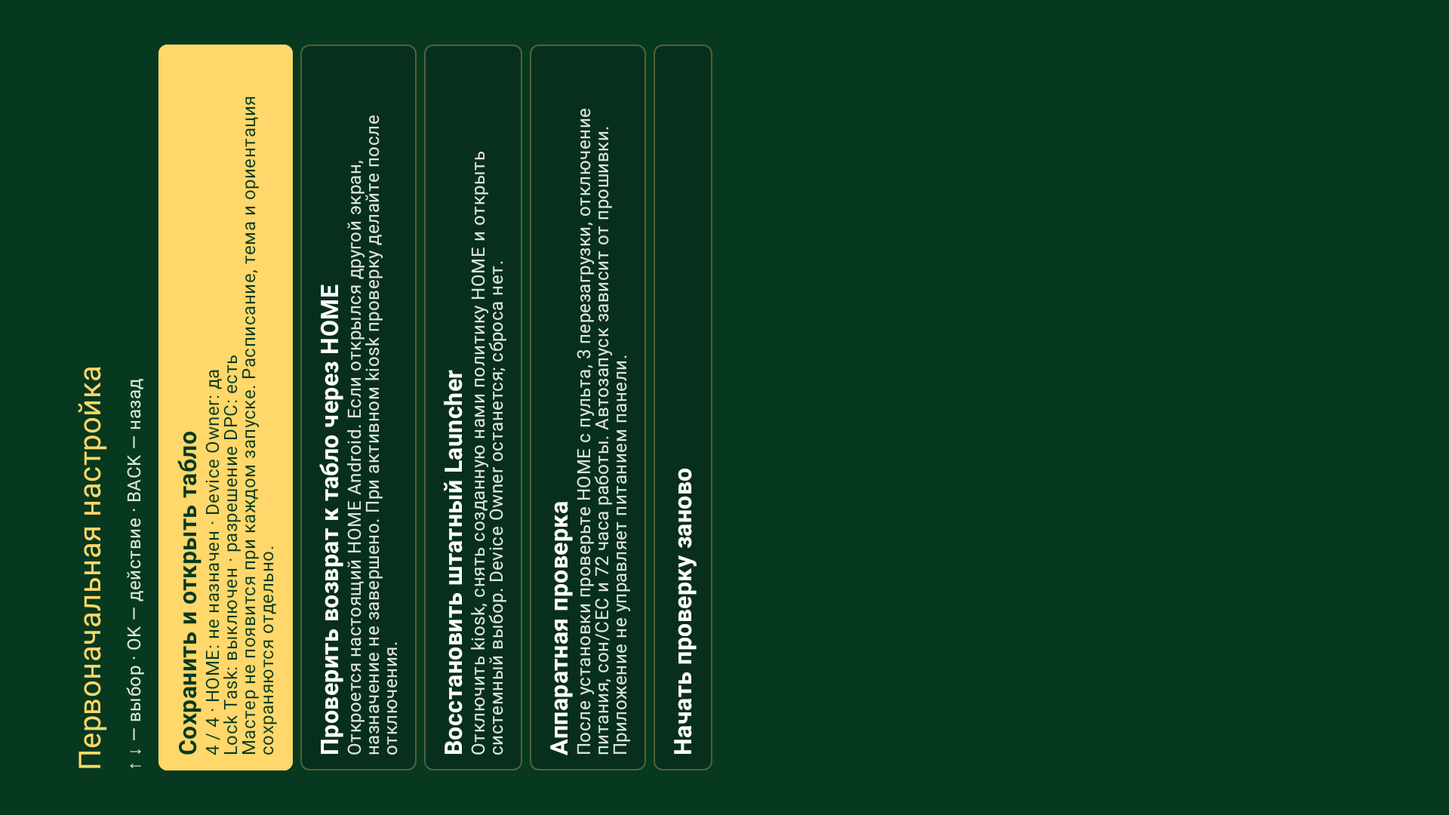
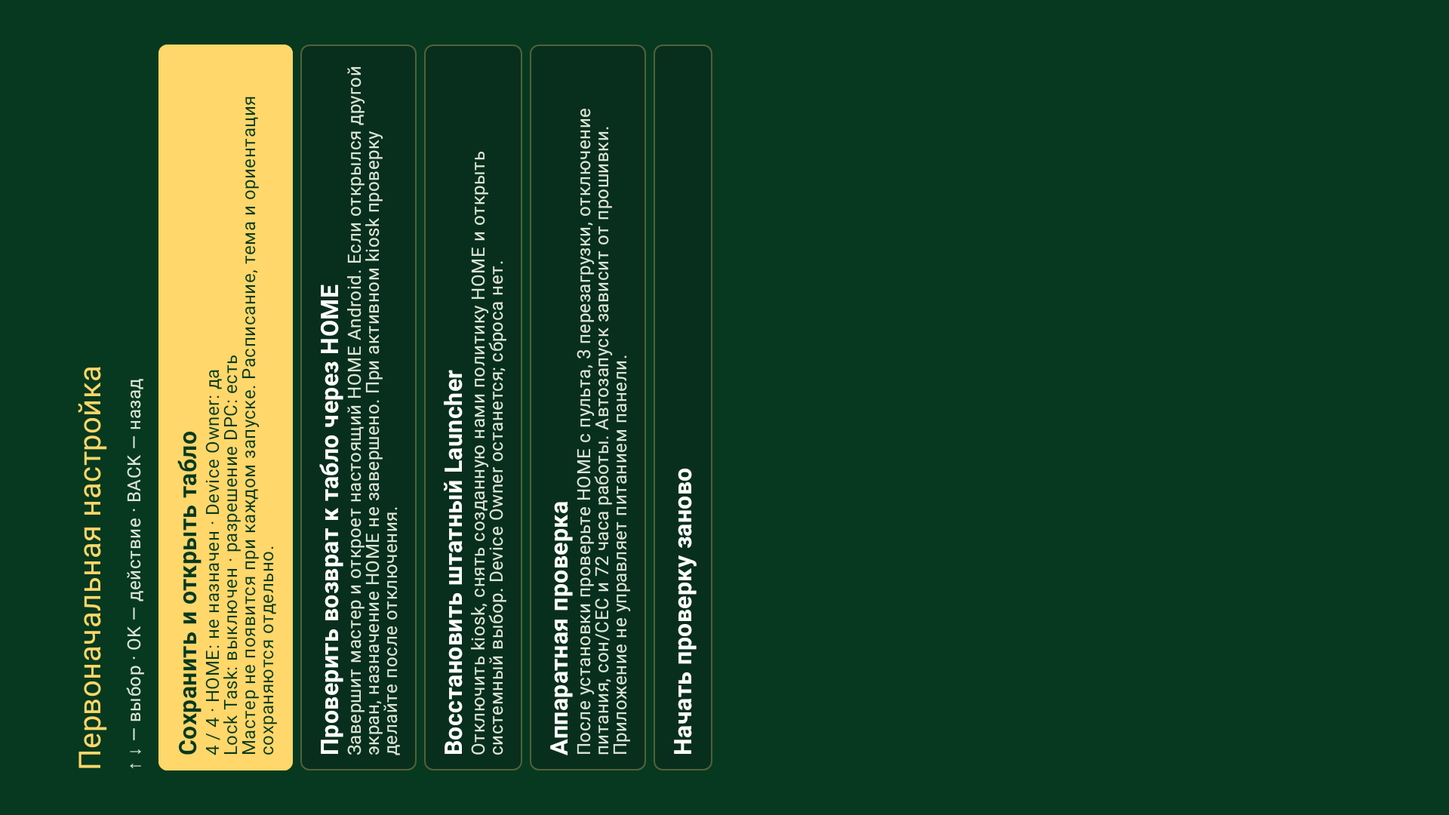
fix: require verified kiosk status and unlocked keyguard

Changed region(s): [[0.2188, 0.1528, 0.2812, 0.9167], [0.2188, 0.0917, 0.25, 0.1528]]

diff --git a/app/src/main/java/dev/nurislam/tv/setup/DeviceSetup.kt b/app/src/main/java/dev/nurislam/tv/setup/DeviceSetup.kt
@@ -2,6 +2,7 @@ package dev.nurislam.tv.setup
 
 import android.app.Activity
 import android.app.ActivityManager
+import android.app.KeyguardManager
 import android.app.admin.DevicePolicyManager
 import android.app.role.RoleManager
 import android.content.ComponentName
@@ -79,6 +80,7 @@ class DeviceSetupController(val access: DeviceAccess, val preferences: SetupPref
         starting = true
         try {
             val s = access.status()
+            check(s.problem == null) { "Полномочия Android не проверены: ${s.problem}" }
             if (!s.lockPermitted && s.deviceOwner) {
                 // Record before the policy call, so interrupted/failed calls can be cleaned up.
                 preferences.ownsAllowlistEntry(true)
@@ -97,7 +99,8 @@ class DeviceSetupController(val access: DeviceAccess, val preferences: SetupPref
 
     suspend fun finishTrialByRemote() {
         check(trialDeadline?.let { SystemClock.elapsedRealtime() < it } == true) { "Время пробы истекло" }
-        check(access.status().lockState == ActivityManager.LOCK_TASK_MODE_LOCKED) { "Настоящий Lock Task не подтверждён системой" }
+        val facts = access.status()
+        check(facts.problem == null && facts.lockState == ActivityManager.LOCK_TASK_MODE_LOCKED) { "Настоящий Lock Task не подтверждён системой" }
         stopVerified()
         preferences.trialPending(false)
         trialDeadline = null
@@ -138,12 +141,14 @@ class DeviceSetupController(val access: DeviceAccess, val preferences: SetupPref
     }
 
     private suspend fun startVerified() {
-        check(access.status().lockPermitted) { "Разрешение Lock Task отсутствует или отозвано" }
-        if (access.status().lockState == ActivityManager.LOCK_TASK_MODE_LOCKED) return
-        check(access.status().lockState == ActivityManager.LOCK_TASK_MODE_NONE) { "Закрепление экрана не является kiosk" }
+        val facts = access.status()
+        check(facts.problem == null && facts.lockPermitted) { "Разрешение Lock Task отсутствует, отозвано или не подтверждено" }
+        if (facts.lockState == ActivityManager.LOCK_TASK_MODE_LOCKED) return
+        check(facts.lockState == ActivityManager.LOCK_TASK_MODE_NONE) { "Закрепление экрана не является kiosk" }
         access.startLock()
         repeat(10) {
-            if (access.status().lockState == ActivityManager.LOCK_TASK_MODE_LOCKED) return
+            val state = access.status()
+            if (state.problem == null && state.lockState == ActivityManager.LOCK_TASK_MODE_LOCKED) return
             delay(100)
         }
         error("Android не подтвердил Lock Task; выполнен безопасный выход")
@@ -152,7 +157,8 @@ class DeviceSetupController(val access: DeviceAccess, val preferences: SetupPref
     private suspend fun stopVerified() {
         access.stopLock()
         repeat(10) {
-            if (access.status().lockState == ActivityManager.LOCK_TASK_MODE_NONE) return
+            val state = access.status()
+            if (state.problem == null && state.lockState == ActivityManager.LOCK_TASK_MODE_NONE) return
             delay(100)
         }
         error("Android не подтвердил выход. Обратитесь к администратору DPC; повторите отключение.")
@@ -163,7 +169,8 @@ class DeviceSetupController(val access: DeviceAccess, val preferences: SetupPref
         if (trialDeadline != null) {
             // Leave the deadline armed if stop throws: the next resume/timer retries.
             access.stopLock()
-            check(access.status().lockState == ActivityManager.LOCK_TASK_MODE_NONE) { "Выход ещё не подтверждён. Повторите отключение kiosk." }
+            val state = access.status()
+            check(state.problem == null && state.lockState == ActivityManager.LOCK_TASK_MODE_NONE) { "Выход ещё не подтверждён. Повторите отключение kiosk." }
             preferences.trialPending(false)
             trialDeadline = null
             exitTested = false
@@ -183,7 +190,8 @@ class DeviceSetupController(val access: DeviceAccess, val preferences: SetupPref
     }
 
     fun setManagedHome() {
-        check(access.status().deviceOwner) { "Требуется Device Owner нашего приложения" }
+        val facts = access.status()
+        check(facts.problem == null && facts.deviceOwner) { "Требуется подтверждённый Device Owner нашего приложения" }
         preferences.ownsHomePolicy(true)
         access.setManagedHome()
         check(access.status().home) { "Android пока не подтвердил HOME. Обновите диагностику." }
@@ -192,6 +200,7 @@ class DeviceSetupController(val access: DeviceAccess, val preferences: SetupPref
     suspend fun releaseHome() {
         disableKiosk()
         val facts = access.status()
+        check(facts.problem == null) { "HOME не освобождён: диагностика Android недоступна. Повторите проверку." }
         check(facts.otherHomes.isNotEmpty() || facts.homeSettingsAvailable) { "Другой Launcher и настройки HOME не обнаружены. Kiosk отключён; HOME пока сохранён. Включите штатный Launcher средствами производителя." }
         if (preferences.ownsHomePolicy) {
             check(access.status().deviceOwner) { "Политику HOME должен снять управляющий DPC" }
@@ -235,7 +244,7 @@ class AndroidDeviceAccess(private val activity: Activity) : DeviceAccess {
                 provisioningAllowed = dpm?.isProvisioningAllowed(DevicePolicyManager.ACTION_PROVISION_MANAGED_DEVICE) == true,
                 legacyProvisioningAvailable = Build.VERSION.SDK_INT < 31 && available(legacyProvisioningRequest()),
             )
-        } catch (e: RuntimeException) { result.copy(problem = "Проверка Android недоступна: ${e.javaClass.simpleName}. Полномочия не подтверждены.") }
+        } catch (e: RuntimeException) { result.copy(lockState = -1, problem = "Проверка Android недоступна: ${e.javaClass.simpleName}. Полномочия не подтверждены.") }
     }
     override fun homeRequest(): Intent {
         if (Build.VERSION.SDK_INT >= 29) {
@@ -249,7 +258,11 @@ class AndroidDeviceAccess(private val activity: Activity) : DeviceAccess {
         .putExtra(DevicePolicyManager.EXTRA_PROVISIONING_LEAVE_ALL_SYSTEM_APPS_ENABLED, true)
     override fun allowSelf() { dpm.setLockTaskPackages(admin, (dpm.getLockTaskPackages(admin).toList() + pkg).distinct().toTypedArray()) }
     override fun removeSelf() { dpm.setLockTaskPackages(admin, dpm.getLockTaskPackages(admin).filter { it != pkg }.toTypedArray()) }
-    override fun startLock() = activity.startLockTask()
+    override fun startLock() {
+        check(dpm?.isLockTaskPermitted(pkg) == true) { "DPC не разрешил Lock Task. Закрепление экрана не запускается." }
+        check(context.getSystemService(KeyguardManager::class.java)?.isKeyguardLocked == false) { "Сначала разблокируйте Android. Kiosk поверх экрана блокировки не запускается; повторите настройку после разблокировки." }
+        activity.startLockTask()
+    }
     override fun stopLock() = activity.stopLockTask()
     override fun setManagedHome() {
         val filter = IntentFilter(Intent.ACTION_MAIN).apply { addCategory(Intent.CATEGORY_HOME); addCategory(Intent.CATEGORY_DEFAULT) }

diff --git a/app/src/main/java/dev/nurislam/tv/ui/DeviceSetupWizard.kt b/app/src/main/java/dev/nurislam/tv/ui/DeviceSetupWizard.kt
@@ -75,7 +75,7 @@ fun DeviceSetupWizard(
         }
     }
     val locked = status.lockState == ActivityManager.LOCK_TASK_MODE_LOCKED
-    val facts = "HOME: ${if (status.home) "Нур Ислам" else "не назначен"} · Device Owner: ${if (status.deviceOwner) "да" else "нет"}\nLock Task: ${when (status.lockState) { ActivityManager.LOCK_TASK_MODE_LOCKED -> "активен"; ActivityManager.LOCK_TASK_MODE_PINNED -> "только закрепление, не kiosk"; else -> "выключен" }} · разрешение DPC: ${if (status.lockPermitted) "есть" else "нет"}"
+    val facts = status.problem ?: "HOME: ${if (status.home) "Нур Ислам" else "не назначен"} · Device Owner: ${if (status.deviceOwner) "да" else "нет"}\nLock Task: ${when (status.lockState) { ActivityManager.LOCK_TASK_MODE_LOCKED -> "активен"; ActivityManager.LOCK_TASK_MODE_PINNED -> "только закрепление, не kiosk"; ActivityManager.LOCK_TASK_MODE_NONE -> "выключен"; else -> "не проверен" }} · разрешение DPC: ${if (status.lockPermitted) "есть" else "нет"}"
     val items = when {
         trialDeadline != null -> listOf(
             SetupItem("Отменить пробу и выйти", message ?: "Автовыход через $seconds с. Настройка не сохранена. BACK также отменяет пробу.") { action(SetupAction.CANCEL_TRIAL) },
@@ -99,7 +99,7 @@ fun DeviceSetupWizard(
         )
         page == SetupPage.KIOSK -> listOf(
             SetupItem("Далее: итоговая проверка", "3 / 4 · $facts") { go(SetupPage.SUMMARY) },
-            SetupItem("Отключить kiosk", "Сначала отключается восстановление kiosk при запуске, затем Lock Task. Выход доступен с пульта всегда.", kioskSaved || locked || status.lockState == ActivityManager.LOCK_TASK_MODE_PINNED || status.deviceOwner) { action(SetupAction.DISABLE_KIOSK) },
+            SetupItem("Отключить kiosk", "Сначала отключается восстановление kiosk при запуске, затем Lock Task. Выход доступен с пульта всегда.") { action(SetupAction.DISABLE_KIOSK) },
             SetupItem("Проверить безопасный выход", "20 секунд. Сначала пробный Lock Task, затем ↓ + OK для выхода. Таймаут/BACK/уход в фон отменяют пробу.", !kioskSaved && !locked && (status.deviceOwner || status.lockPermitted)) { action(SetupAction.START_TRIAL) },
             SetupItem("Включить kiosk при запуске", "Доступно только после успешного выхода из пробы с пульта. Администратор: OK пять раз → настройки → HOME → kiosk → отключить.", exitTested && !kioskSaved) { go(SetupPage.CONFIRM_KIOSK) },
             SetupItem("Управляемая первоначальная настройка", if (status.deviceOwner) "Device Owner уже назначен системе." else "Device Owner нельзя получить кнопкой разрешения после обычной установки.") { go(SetupPage.PROVISIONING) },
@@ -115,7 +115,7 @@ fun DeviceSetupWizard(
         )
         page == SetupPage.SUMMARY -> listOf(
             SetupItem("Сохранить и открыть табло", "4 / 4 · $facts\nМастер не появится при каждом запуске. Расписание, тема и ориентация сохраняются отдельно.") { action(SetupAction.FINISH) },
-            SetupItem("Проверить возврат к табло через HOME", "Откроется настоящий HOME Android. Если открылся другой экран, назначение не завершено. При активном kiosk проверку делайте после отключения.", !locked) { action(SetupAction.TEST_HOME) },
+            SetupItem("Проверить возврат к табло через HOME", "Завершит мастер и откроет настоящий HOME Android. Если открылся другой экран, назначение HOME не завершено. При активном kiosk проверку делайте после отключения.", !locked) { action(SetupAction.TEST_HOME) },
             SetupItem("Восстановить штатный Launcher", "Отключить kiosk, снять созданную нами политику HOME и открыть системный выбор. Device Owner останется; сброса нет.") { go(SetupPage.CONFIRM_RESTORE) },
             SetupItem("Аппаратная проверка", "После установки проверьте HOME с пульта, 3 перезагрузки, отключение питания, сон/CEC и 72 часа работы. Автозапуск зависит от прошивки. Приложение не управляет питанием панели.", false) {},
             SetupItem("Начать проверку заново") { go(SetupPage.CHECK) },

diff --git a/app/src/acceptanceTest/java/dev/nurislam/tv/DeviceAccessAndroidTest.kt b/app/src/acceptanceTest/java/dev/nurislam/tv/DeviceAccessAndroidTest.kt
@@ -79,4 +79,20 @@ class DeviceAccessAndroidTest {
         val provisioning = activity.packageManager.getActivityInfo(ComponentName(activity, ProvisioningActivity::class.java), 0)
         assertEquals("android.permission.BIND_DEVICE_ADMIN", provisioning.permission)
     }
+    @Test fun keyguardMustBeUnlockedBeforeStartingRealActivityLockTask() = withDevice { activity, device ->
+        try { device.startLock(); fail("Adapter must also refuse missing DPC permission") } catch (_: IllegalStateException) {}
+        val dpm = activity.getSystemService(DevicePolicyManager::class.java)
+        shadowOf(dpm).setDeviceOwner(ComponentName(activity, MosqueDeviceAdmin::class.java))
+        device.allowSelf()
+        val keyguard = activity.getSystemService(android.app.KeyguardManager::class.java)
+        shadowOf(keyguard).setKeyguardLocked(true)
+        try { device.startLock(); fail("Must refuse to lock over keyguard") } catch (_: IllegalStateException) {}
+        assertEquals(android.app.ActivityManager.LOCK_TASK_MODE_NONE, device.status().lockState)
+        shadowOf(keyguard).setKeyguardLocked(false)
+        // The authorized adapter call reaches the Activity framework shadow only after unlocking.
+        device.startLock()
+        assertEquals(android.app.ActivityManager.LOCK_TASK_MODE_LOCKED, device.status().lockState)
+        device.stopLock()
+        assertEquals(android.app.ActivityManager.LOCK_TASK_MODE_NONE, device.status().lockState)
+    }
 }

diff --git a/app/src/acceptanceTest/java/dev/nurislam/tv/FirstRunActivityTest.kt b/app/src/acceptanceTest/java/dev/nurislam/tv/FirstRunActivityTest.kt
@@ -112,6 +112,17 @@ class FirstRunActivityTest {
         assertFalse(SetupPreferences.from(compose.activity).kiosk)
         compose.onNodeWithText("Далее: итоговая проверка").assertIsDisplayed()
     }
+    @Test fun homeTestCompletesSetupAndLaunchesTheRealHomeIntent() {
+        key(Key.Back) // summary
+        key(Key.DirectionDown); key(Key.Enter)
+        assertTrue(SetupPreferences.from(compose.activity).completed)
+        compose.onNodeWithTag("device-setup").assertDoesNotExist()
+        val intent = shadowOf(compose.activity).nextStartedActivity
+        assertEquals(Intent.ACTION_MAIN, intent.action)
+        assertTrue(intent.hasCategory(Intent.CATEGORY_HOME))
+        compose.activityRule.scenario.recreate()
+        compose.onNodeWithTag("device-setup").assertDoesNotExist()
+    }
     @Test fun homeReturnDoesNotBypassUnfinishedWizardAndBackIsSafe() {
         compose.runOnIdle { androidx.test.platform.app.InstrumentationRegistry.getInstrumentation().callActivityOnNewIntent(compose.activity, Intent(Intent.ACTION_MAIN).addCategory(Intent.CATEGORY_HOME)) }
         compose.onNodeWithTag("device-setup").assertIsDisplayed()

diff --git a/app/src/acceptanceTest/java/dev/nurislam/tv/DeviceSetupControllerTest.kt b/app/src/acceptanceTest/java/dev/nurislam/tv/DeviceSetupControllerTest.kt
@@ -186,6 +186,21 @@ class DeviceSetupControllerTest {
         fails { broken.disableKiosk() }
         assertEquals(LOCK_TASK_MODE_NONE, device.facts.lockState)
     }
+    @Test fun unavailableDiagnosticsCannotProveLockEntryOrExit() = runTest {
+        device.facts = device.facts.copy(lockPermitted = true, problem = "Service unavailable")
+        fails { controller.startTrial() }
+        assertEquals(0, device.starts)
+        device.facts = device.facts.copy(problem = null)
+        controller.startTrial()
+        device.facts = device.facts.copy(problem = "Service unavailable")
+        fails { controller.finishTrialByRemote() }
+        fails { controller.cancelTrial() }
+        assertFalse(controller.exitTested)
+        assertTrue(prefs.trialPending)
+        device.facts = device.facts.copy(problem = null)
+        controller.cancelTrial()
+        assertFalse(prefs.trialPending)
+    }
     @Test fun malformedPreferencesDoNotGrantOrRestoreKiosk() = runTest {
         val context = ApplicationProvider.getApplicationContext<Context>()
         val raw = context.getSharedPreferences("controller-test", Context.MODE_PRIVATE)

diff --git a/app/src/main/java/dev/nurislam/tv/MainActivity.kt b/app/src/main/java/dev/nurislam/tv/MainActivity.kt
@@ -235,7 +235,7 @@ class MainActivity : ComponentActivity() {
                                                     }
                                                     SetupAction.FINISH -> { deviceSetup.preferences.completed(true); setupOpen = false; admin = false }
                                                     SetupAction.APP_SETTINGS -> { deviceSetup.preferences.completed(true); setupOpen = false; admin = true }
-                                                    SetupAction.TEST_HOME -> { setupOpen = false; admin = false; startActivity(Intent(Intent.ACTION_MAIN).addCategory(Intent.CATEGORY_HOME)) }
+                                                    SetupAction.TEST_HOME -> { deviceSetup.preferences.completed(true); setupOpen = false; admin = false; startActivity(Intent(Intent.ACTION_MAIN).addCategory(Intent.CATEGORY_HOME)) }
                                                 }
                                             }
                                         })

diff --git a/docs/TV_SETUP.md b/docs/TV_SETUP.md
@@ -10,7 +10,7 @@
 4. При необходимости выберите «Экран, тема и расписание»: для физически вертикального ТВ с окном 1920×1080 выберите CW/CCW и подтвердите за 15 секунд. Настройте имя, язык и импортируйте утверждённый JSON. Вернитесь в мастер: **OK пять раз за пять секунд → Открыть настройки администратора → Основной экран HOME / безопасный выход → Мастер HOME / kiosk**.
 5. «Далее: основной экран» → «Сделать Нур Ислам главным экраном». На Android 10+/API 29+ используется системный запрос `ROLE_HOME`, когда роль доступна. Иначе открываются настройки HOME; при отсутствии — обычный HOME resolver. Выберите «Нур Ислам» и «Всегда», если Android предлагает такой выбор.
 6. После возврата мастер повторно проверяет **реальный HOME resolver**, а не доверяет `RESULT_OK`. Если назначение не произошло, попробуйте «Настройки HOME Android». Отказ или закрытая прошивка не блокируют приложение: можно пропустить мастер и пользоваться обычным полноэкранным табло.
-7. Без Device Owner / allowlist пропустите kiosk. На последнем шаге проверьте возврат к табло настоящим HOME и завершите мастер. Завершение сохраняется; мастер не появляется при каждом запуске, но доступен из настроек.
+7. Без Device Owner / allowlist пропустите kiosk. На последнем шаге «Проверить возврат к табло через HOME» завершает мастер и открывает настоящий HOME Android; либо завершите через «Сохранить и открыть табло». Завершение сохраняется; мастер не появляется при каждом запуске, но доступен из настроек.
 8. Сохраните резервную копию исходного календаря. На целевой модели проверьте HOME, три перезагрузки, потерю питания, сон, заставку, HDMI-CEC и 72 часа. Штатный HOME обычно запускается Android после boot, но прошивка может это менять. Приложение не обходит ограничения фонового запуска и не включает питание панели.
 
 Все страницы прокручиваются с ↑/↓; OK выполняет действие, BACK отменяет/возвращает назад. Не нужны MENU, мышь, системная клавиатура или сенсор. Эти же страницы поворачиваются вместе с табло в CW/CCW.
@@ -26,7 +26,7 @@
 
 В мастере → HOME → kiosk:
 
-1. «Проверить безопасный выход». Система должна подтвердить `LOCK_TASK_MODE_LOCKED`. Без `isLockTaskPermitted` вызова `startLockTask` нет; обычное screen pinning не считается kiosk. Нельзя начинать новую пробу поверх существующего закрепления/Lock Task.
+1. «Проверить безопасный выход». Система должна подтвердить `LOCK_TASK_MODE_LOCKED`. Без `isLockTaskPermitted` вызова `startLockTask` нет; обычное screen pinning не считается kiosk. Нельзя начинать новую пробу поверх существующего закрепления/Lock Task. Запуск поверх Android keyguard запрещён: сначала разблокируйте устройство, затем повторите настройку kiosk.
 2. В течение 20 секунд выберите ↓ → «Завершить пробу с пульта» → OK. Приложение останавливает Lock Task и проверяет `NONE`. BACK/таймаут/уход в фон отменяют пробу. Отмена не разрешает постоянное включение.
 3. Только после успешной пробы доступно «Включить kiosk при запуске» → отдельное подтверждение (по умолчанию выбрана отмена). В постоянном режиме сохраняется согласие администратора; при следующем запуске полномочия проверяются вновь. При отзыве разрешения авто-kiosk отключается, на табло появляется причина.
 4. Незавершённая проба помечается **до** запуска Lock Task. После прерывания процесса на следующем запуске приложение сначала пытается выйти; это не превращается в постоянное согласие. Если Android отказывает в выходе, marker сохраняется для повторной попытки, восстановление kiosk отключено. Приложение не может гарантировать восстановление в момент падения ОС/прошивки.
@@ -35,7 +35,7 @@
 
 ## Восстановление штатного Launcher
 
-Мастер → итоговая проверка → «Восстановить штатный Launcher» → подтвердить. Сначала отключается kiosk, затем снимается только созданная нами persistent HOME-policy и обычное предпочтение нашего пакета. Открываются системные настройки HOME; выберите штатный Launcher и «Всегда». Если настройки отсутствуют, приложение пробует обычный системный HOME intent. Это **не** обещает универсальное снятие HOME-role на закрытой прошивке: проверьте фактический результат и назначьте Launcher средствами производителя. Другой DPC может переустанавливать свою политику — обращайтесь к его администратору.
+Мастер → итоговая проверка → «Восстановить штатный Launcher» → подтвердить. Сначала отключается kiosk, затем снимается только созданная нами persistent HOME-policy и обычное предпочтение нашего пакета. Открываются системные настройки HOME; выберите штатный Launcher и «Всегда». Если настройки отсутствуют, приложение пробует обычный системный HOME intent. Если не обнаружен ни другой Launcher, ни настройки HOME, приложение оставляет HOME-policy на месте и показывает ошибку, сохраняя возможность пользоваться табло; kiosk при этом отключается. Это **не** обещает универсальное снятие HOME-role на закрытой прошивке: проверьте фактический результат и назначьте Launcher средствами производителя. Другой DPC может переустанавливать свою политику — обращайтесь к его администратору.
 
 Простое «Открыть другой лаунчер» в старом меню — разовый запуск, **не** изменение HOME. Сначала отключите kiosk. Не удаляйте/не очищайте данные приложения, пока не проверили штатный HOME: это уничтожает календарь, настройки и учёт собственных политик. Device Owner при обычном выходе **остаётся** — снятие управления/сброс выполняется администратором по правилам производителя отдельно. Приложение не вызывает deprecated `clearDeviceOwnerApp` и не удаляет чужие политики.
 

diff --git a/docs/FIRST_RUN_REPORT.md b/docs/FIRST_RUN_REPORT.md
@@ -22,9 +22,9 @@
 ```
 
 - Debug/Release APK и instrumentation APK собраны. Release unsigned, требует постоянной подписи владельца до установки.
-- 230 Debug + 195 Release = **425 успешных JVM/Robolectric выполнений тестов**, без skipped. Включают Compose UI действительной MainActivity в обоих вариантах, прежние проверки расписания/AtomicFile/тем/настроек и новые проверки устройства.
+- 241 Debug + 206 Release = **447 успешных JVM/Robolectric выполнений тестов**, без skipped. Включают Compose UI действительной MainActivity в обоих вариантах, прежние проверки расписания/AtomicFile/тем/настроек и новые проверки устройства.
 - Контроллер безопасности и реальный Android adapter проверены в Robolectric на **API 26, 29, 30, 31, 35**. Provisioning hooks проверены на API 29/30 (modern flow отвергается) и 31/35 (fully managed/compliance). Это не аппаратный enrollment.
-- Ошибки: неразрешённый kiosk, отзыв разрешения перед запуском/рестартом, pinning вместо LOCKED, отказ allowlist/stop, отсутствие другого Launcher, ошибка записи preferences, некорректный тип preferences, прерывание пробы процессом/background. Проверены реальные вызовы Activity.start/stopLockTask через Robolectric framework shadows, сохранение согласия, повторный запуск и штатный D-pad путь выхода.
+- Ошибки: неразрешённый kiosk, отзыв разрешения перед запуском/рестартом, pinning вместо LOCKED, отказ allowlist/stop, запрет старта поверх keyguard, недоступность системной диагностики без ложного подтверждения входа/выхода, отсутствие другого Launcher, ошибка записи preferences, некорректный тип preferences, прерывание пробы процессом/background. Проверены реальные вызовы Activity.start/stopLockTask через Robolectric framework shadows, сохранение согласия, повторный запуск и штатный D-pad путь выхода.
 - UI: отказ/ложный OK HOME не подделывает назначение, пропуск/повторный вход, завершение/пересоздание, объяснение ограничений provisioning, проба/подтверждение/автовыход, обе темы и четыре ориентации. Новые 48 native Skia renders, [13 выбранных скриншотов](../design/screenshots/setup/README.md).
 - Android Lint Debug/Release: 0 errors, 11 warnings: target/dependency updates и стилистическая рекомендация KTX edit в двух preference-хранилищах. Прямой commit позволяет проверить Boolean результата записи. Новая API-граница allowed provisioning modes привязана к API 31; предупреждение о ней устранено.
 - CI workflow выполняет ту же команду и публикует APK, отчёты и снимки. Состояние CI окончательного коммита видно в Checks Draft PR; аппаратная проверка не подменяется CI.
